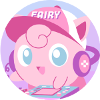
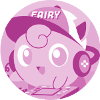
Ajout de ant et d'une barre d'état

diff --git a/src/vue/VueGrille.java b/src/vue/VueGrille.java
@@ -2,21 +2,22 @@ package vue;
 
 import controleur.BoutonControleur;
 import modele.Etat;
-import modele.Jeu;
 
 import javax.swing.*;
 import javax.swing.border.LineBorder;
 import java.awt.*;
-import java.awt.event.ActionListener;
 import java.util.Observable;
 import java.util.Observer;
 
 public class VueGrille extends JPanel implements Observer {
     private Etat etat;
     private JButton[][] grilleBouton;
-    private GridLayout gridLayout;
-    private JPanel panelJeu;
+    private JPanel conteneurPanel;
+        private JPanel infoPanel;
+            private JLabel infoLabel;
+        private JPanel grillePanel;
 
+    //public static final Dimension espaceInfos=new Dimension(0,10);
     public static final Color specialBlue=new Color(100, 135, 255);
 
     public VueGrille(Etat etatInitial) {
@@ -24,8 +25,19 @@ public class VueGrille extends JPanel implements Observer {
         this.etat = etatInitial;
         byte[][] tableau=etat.getTableau();
         this.grilleBouton = new JButton[tableau.length][tableau[0].length];
-        this.gridLayout=new GridLayout(grilleBouton.length,grilleBouton[0].length);
-        this.panelJeu=new JPanel(gridLayout);
+
+
+        this.conteneurPanel = new JPanel();
+        this.conteneurPanel.setLayout(new BoxLayout(this.conteneurPanel,BoxLayout.Y_AXIS));
+            this.infoPanel = new JPanel();
+            this.infoPanel.setBackground(Color.black);
+                this.infoLabel=new JLabel("");
+                this.infoLabel.setForeground(Color.white);
+                this.miseAJourJLabel(etatInitial.getJoueur());
+            this.infoPanel.add(this.infoLabel);
+
+            this.grillePanel = new JPanel(new GridLayout(grilleBouton.length,grilleBouton[0].length));
+
         for (int i=0;i<grilleBouton.length;i++) {
             for (int j=0;j<grilleBouton[0].length;j++) {
                 this.grilleBouton[i][j]=new JButton(Textures.iconeBlanche);
@@ -33,10 +45,23 @@ public class VueGrille extends JPanel implements Observer {
                 this.grilleBouton[i][j].setBorder(new LineBorder(Color.BLACK,2));
                 this.grilleBouton[i][j].setBackground(specialBlue);
                 this.grilleBouton[i][j].addActionListener(new BoutonControleur(etat, j));
-                panelJeu.add(this.grilleBouton[i][j]);
+                grillePanel.add(this.grilleBouton[i][j]);
             }
         }
-        this.add(panelJeu);
+
+
+        conteneurPanel.add(infoPanel);
+        //conteneurPanel.add(Box.createRigidArea(espaceInfos));
+        conteneurPanel.add(grillePanel);
+        this.add(conteneurPanel);
+    }
+
+    public void miseAJourJLabel(byte joueur) {
+        if (joueur == 1) {
+            this.infoLabel.setText("Pikachu doit jouer");
+        } else {
+            this.infoLabel.setText("Rondoudou doit jouer");
+        }
     }
 
     @Override
@@ -53,5 +78,6 @@ public class VueGrille extends JPanel implements Observer {
                 }
             }
         }
+        this.miseAJourJLabel(etat.getJoueur());
     }
 }

diff --git a/src/modele/Etat.java b/src/modele/Etat.java
@@ -41,6 +41,10 @@ public class Etat extends Observable {
         return tableau;
     }
 
+    public byte getJoueur() {
+        return joueur;
+    }
+
     /**
      * Joue un coup si il est possible et retourne true sinon retourne false
      * @param c Le coup (ligne et colonne)
